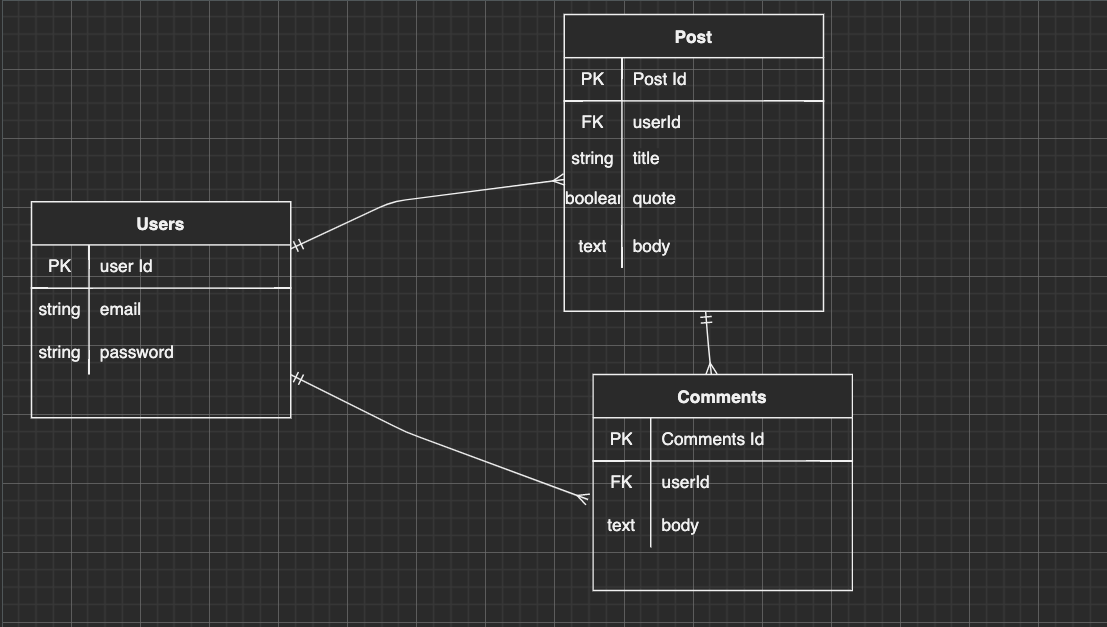
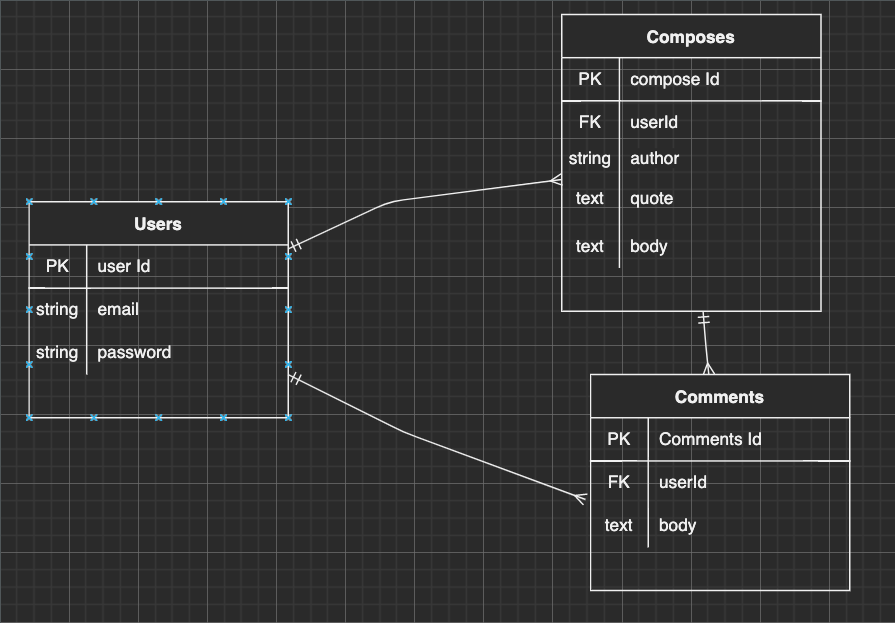
Associated users data to db

diff --git a/server.js b/server.js
@@ -6,6 +6,7 @@ const cookieParser = require('cookie-parser')
 const db = require('./models')
 const cryptoJS = require('crypto-js')
 const axios = require('axios')
+const { randomQuote } = require('quotegarden')
 
 //global variables
 // const post = ""
@@ -60,7 +61,7 @@ app.get('/', (req, res) => {
   // console.log(res.locals)
   res.render('index')
 })
-//pulling data from api
+//pulling data from quotable api
 app.get('/compose', (req, res) => {
   axios.get(`https://api.quotable.io/random?maxLength=80#`)
     .then(response => {
@@ -74,14 +75,37 @@ app.get("/compose", (req, res) => {
 });
 
 
-//redirect the user once the post has been created
-app.post("/compose", (req, res ) => {
+//redirect the user once the post has been created in db
+app.post("/compose", async (req, res) => {
   const allPost = req.body.postBody
-  
+  const compose = await db.compose.create({
+    body: req.body.postBody,
+    quote: req.body.quote
+    // author: req.body.postBody
+  })
 
-  res.render("home.ejs", {allPost});
+  res.render("home.ejs", { quote: compose.quote, allPost });
 
 });
+
+//show information about specific post
+app.get("/compose/:id", async (req, res) => {
+  try {
+
+    //get the array of quotes from the quotegarden.json
+    let quotes = await randomQuote()
+    //send them as a file
+    let quoteData = JSON.parse(quotes)
+    console.log(quoteData)
+    //identify the index of quote
+    let composeIndex = req.params.id
+    // console.log(composeIndex)
+    res.render("compose/compose.ejs", { quote: quoteData[composeIndex] });
+  } catch (err) {
+    console.log(err)
+  }
+})
+
 // controllers
 app.use('/users', require('./controllers/users'))
 

diff --git a/controllers/users.js b/controllers/users.js
@@ -68,8 +68,8 @@ router.post('/login', async (req, res) => {
 			
 			console.log(compare)
 			// if they match -- send the user a cookie! to log them in
-			// const encryptedId = cryptoJS.AES.encrypt(foundUser.id.toString(), process.env.ENC_KEY).toString()
-			// res.cookie('userId', encryptedId)
+			const encryptedId = cryptoJS.AES.encrypt(foundUser.id.toString(), process.env.ENC_KEY).toString()
+			res.cookie('userId', encryptedId)
 			// redirect to profile
 			res.redirect('/home') 
 		} else {

diff --git a/README.md b/README.md
@@ -8,9 +8,9 @@ API:<h2><a href="https://api.quotable.io/random?maxLength=50#">Quotable</a></h2>
 <details>
 <summary>Wireframes</summary>
 
-![blockquoto](./images/login.jpg)
-![blockquoto](./images/home.jpg)
-![blockquoto](./images/posts.jpg)
+![blockquote](./images/login.jpg)
+![blockquote](./images/home.jpg)
+![blockquote](./images/posts.jpg)
 </details>
 <details>
 
@@ -60,7 +60,7 @@ API:<h2><a href="https://api.quotable.io/random?maxLength=50#">Quotable</a></h2>
 ![Express](https://img.shields.io/badge/-Express-333?style=flat&logo=express)
 ![Node.js](https://img.shields.io/badge/-Node.js-333?style=flat&logo=node.js)
 ![Postgres](https://img.shields.io/badge/postgres-%23316192.svg?style=for-the-badge&logo=postgresql&logoColor=white)
-![Bootstrap](https://img.shields.io/badge/Bootstrap-563D7C?style=for-the-badge&logo=bootstrap&logoColor=white)
+<!-- ![Bootstrap](https://img.shields.io/badge/Bootstrap-563D7C?style=for-the-badge&logo=bootstrap&logoColor=white) -->
 ![Markdown](https://img.shields.io/badge/markdown-%23000000.svg?style=for-the-badge&logo=markdown&logoColor=white)
 ![Git](https://img.shields.io/badge/git-%23F05033.svg?style=for-the-badge&logo=git&logoColor=white)
 ![GitHub](https://img.shields.io/badge/github-%23121011.svg?style=for-the-badge&logo=github&logoColor=white)
